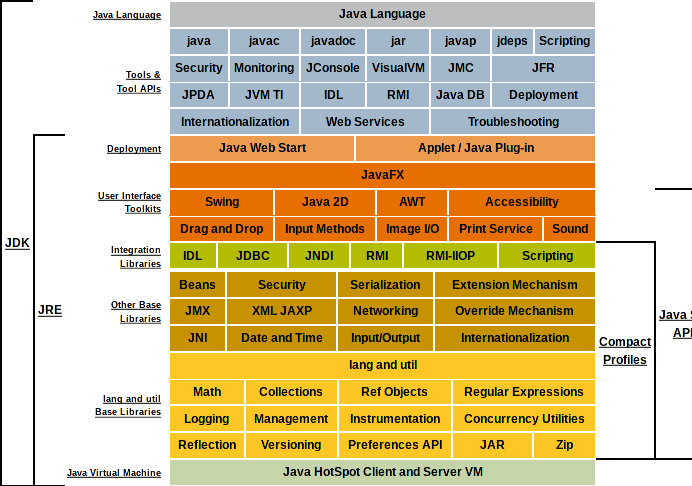
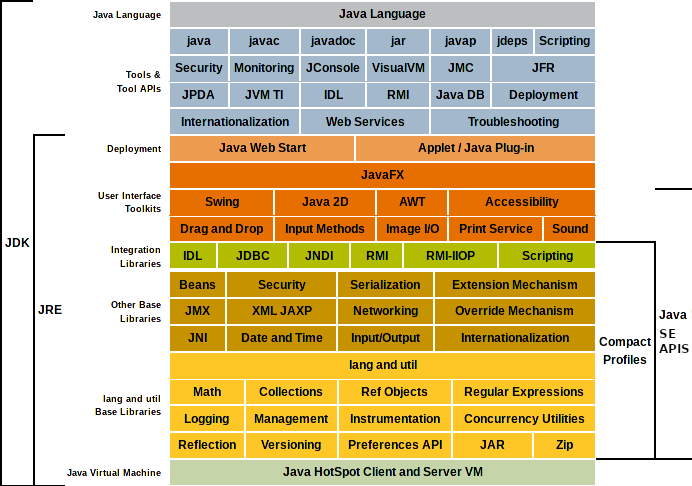
Build, Fix, +: Finally fix inline html syntax - Add jekyll setup section - remove underlines in javase8 stack table

diff --git a/README.md b/README.md
@@ -55,7 +55,7 @@ Java 开发平台提供了以 Java 程序设计语言为核心的 __完整跨平
 Sun 定义的 Java 技术体系包含以下项目：
 
 <dl>
-  <dt>Java 程序设计语言
+  <dt>Java 程序设计语言</dt>
     <dd><div id="intro-lang">
       Java 程序设计语言是 Java 开发平台的 <b>灵魂</b>
       <br>Java 是一门 <b>强类型、静态检查、显式类型</b> 的低糖语言，它支持<a href="https://en.wikipedia.org/wiki/Programming_paradigm">面向对象编程、、面向对象多态、并发编程、事件驱动、反射元编程、泛型编程、Annotation 处理</a>，当然，也包含基本的<a href="https://en.wikipedia.org/wiki/Functional_programming">函数式编程</a>和<a href="https://en.wikipedia.org/wiki/Recursion_(computer_science)">递归</a>支持
@@ -69,19 +69,19 @@ Sun 定义的 Java 技术体系包含以下项目：
       <br><a href="https://github.com/antlr/grammars-v4/blob/master/java8/Java8.g4#L877">Java 8 ANTLR Grammar</a>
       <br><a href="https://docs.oracle.com/javase/specs/jls/se8/html/index.html">Java 8 Language Spefification</a>
       <br><a href="https://docs.oracle.com/javase/specs/jvms/se8/html/index.html">Java 8 JVM Spefification</a>
-    </div></div>
-  <dt>Class 文件格式<sub>（Java 字节码格式）</sub>
+    </div></div></dd>
+  <dt>Class 文件格式<sub>（Java 字节码格式）</sub></dt>
     <dd><div id="intro-classfile-links">
       <a href="https://duckduckgo.com/?q=Javaassist&t=ffab&atb=v163-1&ia=web">JavaAssist Java bytecode engineering toolkit</a>
       <br><a href="http://asm.ow2.org/">ObjectWeb ASM bytecode manipulation and analysis framework</a>
       <br><a href="https://github.com/apache/commons-bcel">Apache Commons Bytecode Engineering Library</a>
-    </div>
-  <dt>Java 虚拟机<sub>（在各种实际硬件和操作系统平台上的实现）</sub>
+    </div></dd>
+  <dt>Java 虚拟机<sub>（在各种实际硬件和操作系统平台上的实现）</sub></dt>
     <dd><div id="intro-jvm-links">
       <a href="https://github.com/imkiva/KiVM">KiVM Java VM (spec version 8 and only Java 8 is supported) implementation in C++</a>
-    </div>
-  <dt>Java 语言 API <sub>（<code>java.*</code> 标准库）</sub>
-  <dt>Java 外部 API <sub>（来自商业机构和开源社区的第三方 Java <abbr title="Class library">类库</abbr>）</sub>
+    </div></dd>
+  <dt>Java 语言 API <sub>（<code>java.*</code> 标准库）</sub></dt>
+  <dt>Java 外部 API <sub>（来自商业机构和开源社区的第三方 Java <abbr title="Class library">类库</abbr>）</sub></dt>
 </dl>
 
 <div id="jdk,jre">
@@ -220,4 +220,19 @@ AUTHORS OR COPYRIGHT HOLDERS BE LIABLE FOR ANY CLAIM, DAMAGES OR OTHER
 LIABILITY, WHETHER IN AN ACTION OF CONTRACT, TORT OR OTHERWISE, ARISING FROM,
 OUT OF OR IN CONNECTION WITH THE SOFTWARE OR THE USE OR OTHER DEALINGS IN THE
 SOFTWARE.
+```
+
+## Development: Setup Jekyll
+
+```bash
+pushd Java-You-Dont-Know
+
+git checkout -b gh-pages
+
+print>Gemfile \
+  "source \'https://rubygems.org\'" \
+  "\ngem \'github-pages\', group: :jekyll_plugins"
+
+bundle install
+bundle exec jekyll serve
 ```
